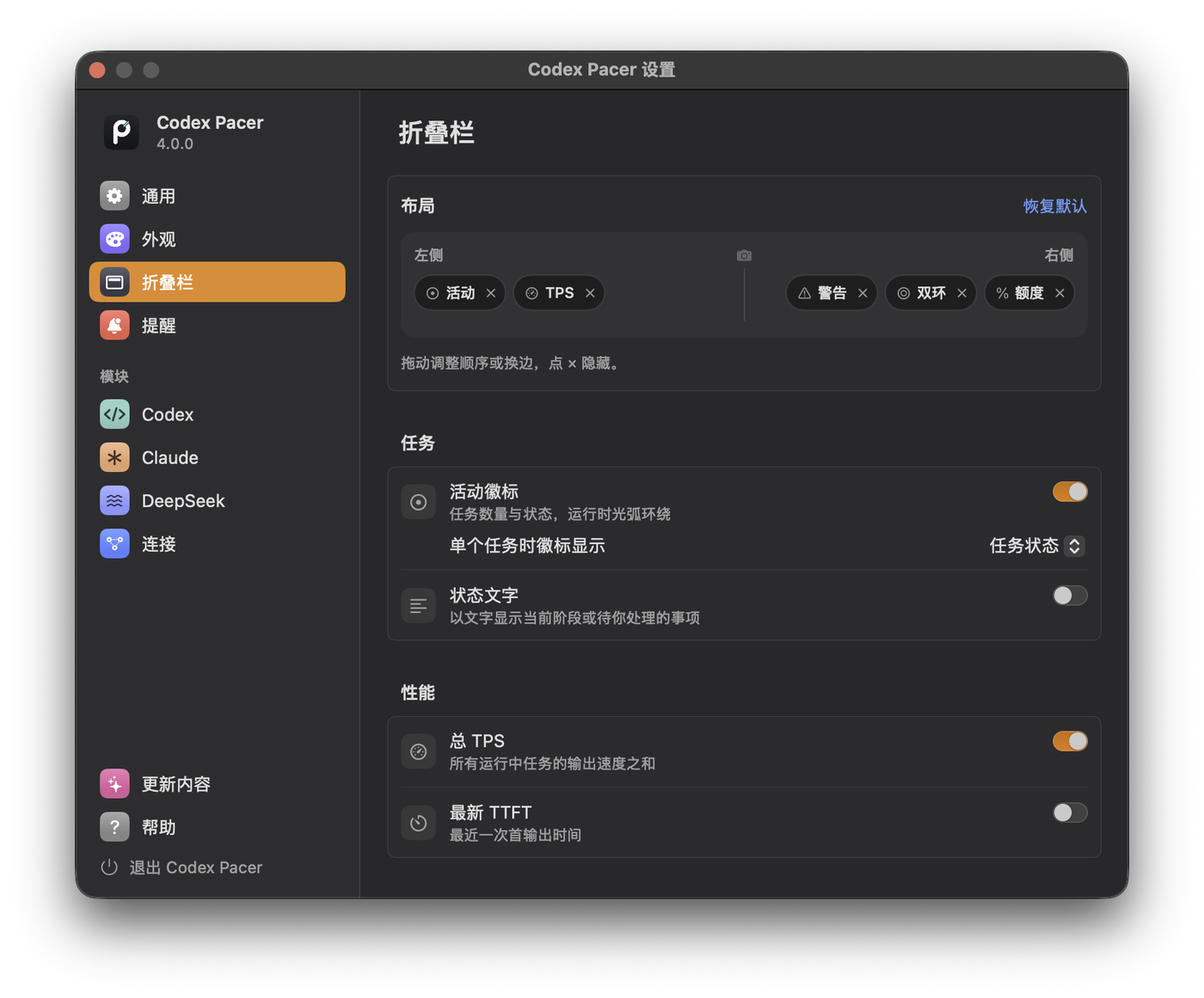
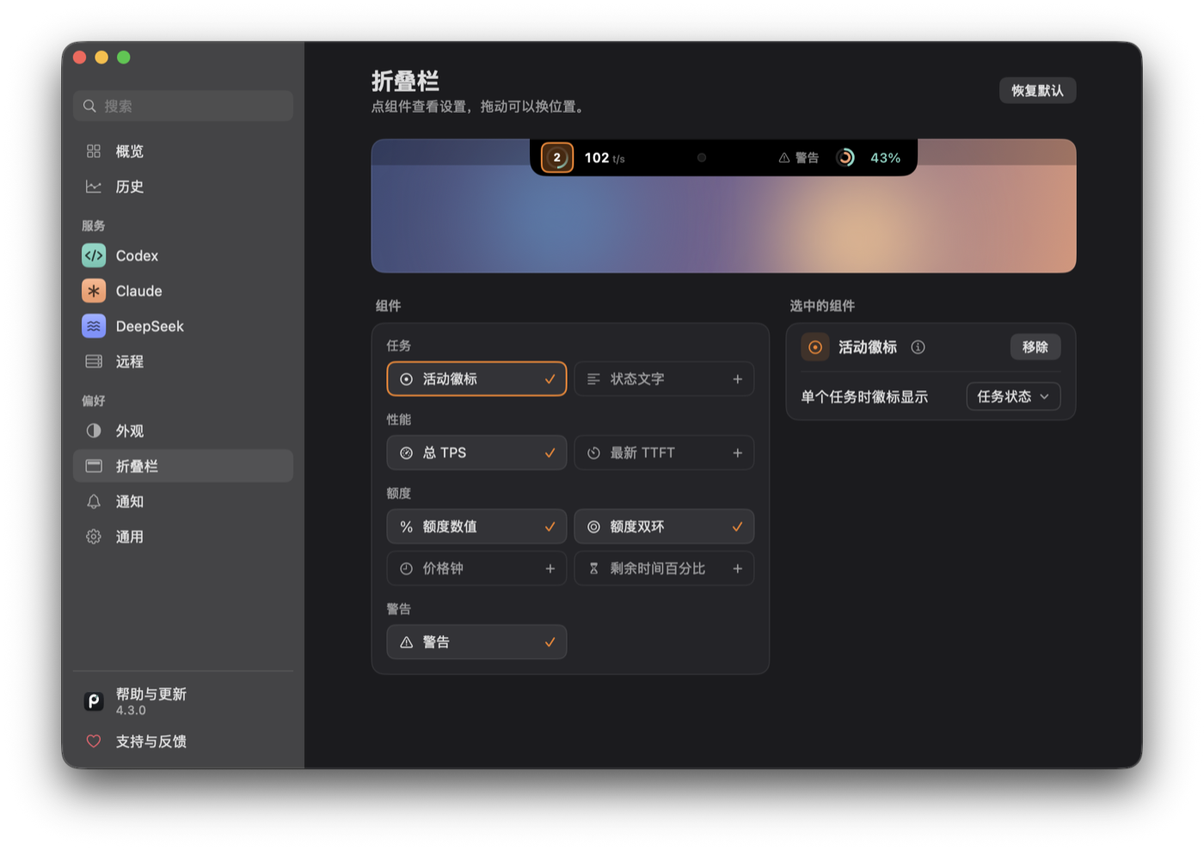
Prepare Codex Pacer 4.3.0 (build 79)
Bump the build above the locally tested 78, add the main window to
What's New, write the 4.3.0 changelog and release notes, and bring the
READMEs, guides and development notes up to date with new screenshots
of the Collapsed Bar page and the welcome guide.

diff --git a/native/Sources/PacerCore/WhatsNew.swift b/native/Sources/PacerCore/WhatsNew.swift
@@ -26,6 +26,7 @@ public enum WhatsNew {
     /// both Localizable.strings catalogs need every key.
     public static let releases = [
         Release(version: "4.3.0", items: [
+            Item(symbol: "macwindow", titleKey: "whats_new.main_window", detailKey: "whats_new.main_window_detail"),
             Item(symbol: "circle.dashed", titleKey: "whats_new.progress_ring", detailKey: "whats_new.progress_ring_detail")
         ]),
         Release(version: "4.2.4", items: [

diff --git a/docs/development.md b/docs/development.md
@@ -256,7 +256,7 @@ Settings is Pacer's main window: a `SettingsWindow` of 980×660 (at least 860×5
 
 General → Dock Icon (`dockIcon`: `whileOpen`, the default, `always` or `never`) switches the activation policy between `.regular` and `.accessory` as the window opens and closes and when the choice changes; clicking the Dock icon reopens the window. The island itself never needs the icon.
 
-Notifications is a matrix of events against two columns, the collapsed bar and system notifications, under one System Notifications switch, followed by ended-task retention. The bar column chooses the collapsed-bar warning kinds; replies, approvals and endings always show there. The system column is not per-event yet: its cells are disabled and show what the switch does today (a dash where an event has no system notification), and DeepSeek's rows follow the switch only while their bar warning is on. Pending replies/approvals, unread endings and quota already show in the collapsed bar, so the expanded island has no notice banner and those states always show; the former per-kind switches (`lowQuotaReminder`, `inputReminder`, `completionReminder`) are ignored and removed on the next settings change. With System Notifications on, a new reply/approval request, a turn ending or interruption and a quota window first reaching 15% each post one notification, read from the model's own defaults. The What's New tab shows the newest note as a feature card with Release Notes and folds each earlier version to one line of its highlights' titles; each highlight keeps its explanation behind ⓘ (a sign-in item problem still shows in place), and the once-per-update note keeps its full text. The Help tab opens with three tiles (the welcome guide, the user guide and issues), then a read-only legend shown one topic at a time by chips: Collapsed Bar, Expanded Panel, Codex, Claude or DeepSeek (starting on Collapsed Bar). Each entry is one sentence on what you see and what it means; troubleshooting and the rules behind the numbers stay in the user guide. Collapsed Bar covers module colors (teal Codex, warm orange Claude, blue DeepSeek under Multicolor; three shades of one accent otherwise), the badge with one, two and three running services, attention, endings, quota rings, warnings, customizing and moving the island; Expanded Panel covers expanding, opening a conversation, app buttons, Mark All as Read and pace. A module topic shows quota, the 5h warning, remote tasks and other apps for Codex and Claude; balance, balance and budget modes, turn cost, peak price, the price clock, alerts and speed for DeepSeek, with a footnote that each module turns on in its own page. Samples are the real components on bar-colored swatches, or a symbol where a mark has none. It writes no preferences. Support & Feedback is the only place Pacer asks for anything: it never prompts, reads no network and writes no preferences. Its links open in the default browser, which holds the GitHub session, so Pacer neither knows nor needs the sign-in or star state. Star opens `github.com/login?return_to=/RyanZhangNTU/codex-pacer`, the link GitHub's own signed-out Star button uses: a signed-in browser lands on the project at once (checked in Chrome), a signed-out one signs in and returns there. The issue-form links rely on GitHub's own redirect through sign-in. The coffee row has a button for each entry in `ProjectSupport.donationLinks` and one for `support-wechat.png` in PacerCore's resources, which shows the QR code in a popover that takes Esc before Settings does. The row hides when there are none. The Feedback & Community card ends with the QQ group: `ProjectSupport.qqGroupNumber` with Copy Number, and QR Code for `support-qq-group.png` (the group's own styled code, light dots on its dark card, which encodes https://qm.qq.com/q/5AieQJsCWY) in the same kind of popover; the button hides when the image does not ship. A two-step welcome window appears once per major line. Step 1 draws the collapsed bar hanging from a notched menu bar on the Appearance wallpaper with the real components (activity badge with its orbit, rate, quota rings with the alternating value, 5h marker) and the default attached-surface radii; callouts are tied to each part by measured anchors and dim the others on hover. Beside the three badge states, a scaled island replays the real `IslandMotion` spring as a pointer arrives and leaves (static and open with Reduce Motion), and All Marks opens Settings → Help & Updates → Help for the full legend. Help's Welcome Guide tile can show the guide again; Settings closes first (applying pending changes) so the guide's module switches cannot race its copy. Step 2 shows Codex, Claude and DeepSeek as cards whose switches make the same explicit module choice as Settings (automatic detection is noted until changed), with each provider's status and one action when needed (Settings when not found; Claude sign-in or workspace choice and DeepSeek sign-in or Paste Key in the provider's color), then the collapsed-bar shortcut, the System Notifications switch and the Open at Login switch. It appears on a fresh install or the first launch after upgrading from an earlier major line (3.x to 4.0 shows it again for the DeepSeek card), but not in demo mode or a Settings relaunch. Closing it records `welcomeGuideVersion`, so later 4.x updates stay quiet; `--welcome` forces it for checks, and demo runs never record it. Settings apply as they change, with no Save or Cancel: switches, pickers, sliders, tiles and layout edits persist and call `applySettings` after a 0.25 s coalescing delay (flushed when the window closes), so a slider drag or quick toggling resets a source at most once. Text fields (CLI path, Codex and Claude folders) commit on Return, focus loss, a chooser or window close; they validate first and keep the last valid value with an inline message. A language change is saved at once and offers Restart Now; enabling system notifications asks for permission immediately and turns back off if refused, retaining the refusal explanation. Permission state belongs to the app across Settings close/reopen; late replies cannot override the latest switch choice, and delivery remains off until the current request succeeds. Appearance and Collapsed Bar have no preview of their own because changes reach the real island at once. Liquid Glass has no app-level settings: the island uses the regular variant without a tint, so its clarity follows the system Liquid Glass look (System Settings → Appearance; the page shows one Transparency row with an Adjust button); a fixed 55% dark wash (75% with Increase Contrast) keeps light text legible over bright content, and Reduce Transparency shows the solid surface. Retired glass style, tint, transparency and corner-radius preferences are removed on the next settings change. With Liquid Glass attached to a notch (including Automatic on a notched screen) and transparency not reduced, a Notch Mode row in the Style section states that the collapsed bar stays black, keeping one shape with the camera, and the expanded island shows glass. Esc closes the window and the last selected pane is remembered. Settings reuses its native window and geometry but releases its hosting content on close (Esc, the red close control or Command-W). Reopening builds fresh values from saved preferences rather than retaining hidden history charts and model-observing views. This changes view lifetime, not collection cadence, and does not establish a measured overall energy reduction.
+Notifications is a matrix of events against two columns, the collapsed bar and system notifications, under one System Notifications switch, followed by ended-task retention. The bar column chooses the collapsed-bar warning kinds; replies, approvals and endings always show there. The system column is not per-event yet: its cells are disabled and show what the switch does today (a dash where an event has no system notification), and DeepSeek's rows follow the switch only while their bar warning is on. Pending replies/approvals, unread endings and quota already show in the collapsed bar, so the expanded island has no notice banner and those states always show; the former per-kind switches (`lowQuotaReminder`, `inputReminder`, `completionReminder`) are ignored and removed on the next settings change. With System Notifications on, a new reply/approval request, a turn ending or interruption and a quota window first reaching 15% each post one notification, read from the model's own defaults. The What's New tab shows the newest note as a feature card with Release Notes and folds each earlier version to one line of its highlights' titles; each highlight keeps its explanation behind ⓘ (a sign-in item problem still shows in place), and the once-per-update note keeps its full text. The Help tab opens with three tiles (the welcome guide, the user guide and issues), then a read-only legend shown one topic at a time by chips: Collapsed Bar, Expanded Panel, Codex, Claude or DeepSeek (starting on Collapsed Bar). Each entry is one sentence on what you see and what it means; troubleshooting and the rules behind the numbers stay in the user guide. Collapsed Bar covers module colors (teal Codex, warm orange Claude, blue DeepSeek under Multicolor; three shades of one accent otherwise), the badge with one, two and three running services, attention, endings, quota rings, warnings, customizing and moving the island; Expanded Panel covers expanding, opening a conversation, app buttons, Mark All as Read and pace. A module topic shows quota, the 5h warning, remote tasks and other apps for Codex and Claude; balance, balance and budget modes, turn cost, peak price, the price clock, alerts and speed for DeepSeek, with a footnote that each module turns on in its own page. Samples are the real components on bar-colored swatches, or a symbol where a mark has none. It writes no preferences. Support & Feedback is the only place Pacer asks for anything: it never prompts, reads no network and writes no preferences. Its links open in the default browser, which holds the GitHub session, so Pacer neither knows nor needs the sign-in or star state. Star opens `github.com/login?return_to=/RyanZhangNTU/codex-pacer`, the link GitHub's own signed-out Star button uses: a signed-in browser lands on the project at once (checked in Chrome), a signed-out one signs in and returns there. The issue-form links rely on GitHub's own redirect through sign-in. The coffee row has a button for each entry in `ProjectSupport.donationLinks` and one for `support-wechat.png` in PacerCore's resources, which shows the QR code in a popover that takes Esc before Settings does. The row hides when there are none. The Feedback & Community card ends with the QQ group: `ProjectSupport.qqGroupNumber` with Copy Number, and QR Code for `support-qq-group.png` (the group's own styled code, light dots on its dark card, which encodes https://qm.qq.com/q/5AieQJsCWY) in the same kind of popover; the button hides when the image does not ship. The welcome guide (`WelcomeView`) has four pages drawn like the main window, each with a large title. Welcome draws the collapsed bar hanging from a notched menu bar on the Appearance wallpaper with the real components (activity badge, rate, quota rings with the alternating value, 5h marker); callouts are tied to each part by measured anchors and dim the others on hover. Choose a Mode shows Island and Free Move as cards that replay the island opening or moving (static with Reduce Motion); picking one moves the real island at once, the same choice as Appearance. Choose What to Track shows Codex, Claude and DeepSeek as cards whose switches make the same explicit module choice as Settings (automatic detection is noted until changed), with each provider's status and one action when needed (Settings when not found; Claude sign-in or workspace choice and DeepSeek sign-in or Paste Key in the provider's color). A Few Choices has one switch for every service's progress ring, System Notifications, Open at Login and the collapsed-bar shortcut, with explanations behind ⓘ. Help's Welcome Guide tile can show the guide again; Settings closes first (applying pending changes) so the guide's module switches cannot race its copy. It appears on a fresh install or the first launch after upgrading from an earlier major line (3.x to 4.0 shows it again for the DeepSeek card), but not in demo mode or a Settings relaunch. Closing it records `welcomeGuideVersion`, so later 4.x updates stay quiet; `--welcome` forces it for checks, and demo runs never record it. Settings apply as they change, with no Save or Cancel: switches, pickers, sliders, tiles and layout edits persist and call `applySettings` after a 0.25 s coalescing delay (flushed when the window closes), so a slider drag or quick toggling resets a source at most once. Text fields (CLI path, Codex and Claude folders) commit on Return, focus loss, a chooser or window close; they validate first and keep the last valid value with an inline message. A language change is saved at once and offers Restart Now; enabling system notifications asks for permission immediately and turns back off if refused, retaining the refusal explanation. Permission state belongs to the app across Settings close/reopen; late replies cannot override the latest switch choice, and delivery remains off until the current request succeeds. Appearance and Collapsed Bar have no preview of their own because changes reach the real island at once. Liquid Glass has no app-level settings: the island uses the regular variant without a tint, so its clarity follows the system Liquid Glass look (System Settings → Appearance; the page shows one Transparency row with an Adjust button); a fixed 55% dark wash (75% with Increase Contrast) keeps light text legible over bright content, and Reduce Transparency shows the solid surface. Retired glass style, tint, transparency and corner-radius preferences are removed on the next settings change. With Liquid Glass attached to a notch (including Automatic on a notched screen) and transparency not reduced, a Notch Mode row in the Style section states that the collapsed bar stays black, keeping one shape with the camera, and the expanded island shows glass. Esc closes the window and the last selected pane is remembered. Settings reuses its native window and geometry but releases its hosting content on close (Esc, the red close control or Command-W). Reopening builds fresh values from saved preferences rather than retaining hidden history charts and model-observing views. This changes view lifetime, not collection cadence, and does not establish a measured overall energy reduction.
 
 Open at Login (General, welcome step 2 and the update note) registers the app through `SMAppService.mainApp`. macOS owns the record and shows it in System Settings → General → Login Items, so Pacer stores no preference of its own: it reads the status when Settings opens and whenever Pacer becomes active, treats Requires Approval as on with an explanation and a Login Items button, calls register or unregister only when the state actually changes, and keeps a failure message until the next choice. Demo runs use an in-memory record, so checks never add a login item for a `/private/tmp` build.
 

diff --git a/README.md b/README.md
@@ -33,7 +33,7 @@ Collapsed, Pacer is a slim bar around the camera that tells you how your agents 
 
 | | What it tells you |
 | --- | --- |
-| **Task badge** | How many tasks are running. An orbit turns while they work, teal for Codex, orange for Claude and blue for DeepSeek. Solid amber means a task is waiting for your reply or approval; a check marks a task that just ended. |
+| **Task badge** | How many tasks are running. An orbit turns while they work, teal for Codex, orange for Claude and blue for DeepSeek. Solid amber means a task is waiting for your reply or approval; a check marks a task that just ended. When the only running task reports its progress, the badge shows it as an arc. |
 | **Speed** | Combined output of the running tasks, in tokens per second. |
 | **Quota** | Remaining quota for Codex and Claude, and the DeepSeek balance or budget. Two rings show the modules you choose; the number alternates between the services. |
 | **Warnings** | Appear only when needed: the 5-hour quota is low, an SSH host is disconnected, quota has not updated, or DeepSeek's balance is low, spending spikes or a budget runs out. |
@@ -43,30 +43,32 @@ Collapsed, Pacer is a slim bar around the camera that tells you how your agents 
 ## Everything in one panel
 
 - **Every task in one list.** Codex and Claude Code tasks on this Mac or PC, on your SSH hosts, in WSL on Windows and through Codex Remote Control, threads and coordinators in Claude's cloud Projects, and local DeepSeek Harness tasks, each with its current stage, model and reasoning effort, turn time and output speed. Agents a task spawns are grouped under it.
+- **Progress on every task.** Codex, Claude Code and DeepSeek Harness report how much of your request is done, drawn as a ring around the task's icon. A comet circles until the first estimate, light runs along the arc while the task works, and a task that needs you or has ended fills a solid disc.
 - **Jump back in.** Click a task to open its conversation. An ended task stays as a card until you open it or its retention time passes, so nothing finishes unnoticed.
 - **Quota with pace.** Each service has one ring: a shorter upper arc for 5 hours and a longer lower arc for 7 days, each with its own remaining quota, reset countdown and white pace tick. Accounts without a 5-hour limit get a weekly gauge that opens at the bottom. With one service on, its pace, reset time and a forecast sit beside the ring. Switch to the original Classic layout in **Settings → Appearance → Expanded Quota**.
 - **DeepSeek by balance or budget.** DeepSeek charges a balance instead of quota windows, so its dial is today on a 24-hour face: what each hour cost, the doubled-price peak hours and the balance in the middle. Switch to daily and weekly budgets and the dial paces them like quota. Pacer checks balance changes against its own estimate, so spend not made on this Mac, such as web searches or another device, counts too, and it warns you when 10 minutes cost more than usual. Each task shows its turn's estimated cost, and with DeepSeek alone the panel adds where today's money went and the last 7 days. The balance comes from a DeepSeek platform sign-in in Pacer's own window or an API key, whichever matches how Harness signs in.
-- **History when you want it.** Settings keeps each service's quota curve for the current cycle, plus credits and banked resets when the service reports them.
+- **An overview and history.** Pacer's main window opens on an Overview of every service and anything that needs you. History keeps each service's quota curve for the current cycle, credits and banked resets when the service reports them, and DeepSeek's last seven days.
 
 ![DeepSeek alone, with sample data: the day dial with the balance and a ×2 until 6:00 PM chip, beside today's spend, the last two hours' speed and where today's money went, including a hatched Not on this Mac part, above the last 7 days](docs/assets/deepseek.png)
 
 ## Make it yours
 
-![Collapsed Bar settings: drag components between the left and right of the camera and toggle each one](docs/assets/settings-collapsed-bar.png)
+![Collapsed Bar in the main window: the bar on a live preview, the component library below and the selected Activity badge's settings](docs/assets/settings-collapsed-bar.png)
 
-- **Arrange the bar.** Drag components between the left and right of the camera, hide what you don't need, choose which module each quota ring shows, and pick 5 hours or 7 days for each service's quota. With DeepSeek alone, a price clock shows the peak hours at a glance.
+- **Arrange the bar.** On a live preview, drag components between the left and right of the camera, hide what you don't need, choose which module each quota ring shows, and pick 5 hours or 7 days for each service's quota. With DeepSeek alone, a price clock shows the peak hours at a glance.
 - **Black or Liquid Glass.** On macOS 26 and later the island can use Liquid Glass, and its clarity follows the system setting.
-- **Place the island where it fits.** On Windows, drag the status bar anywhere or snap it to any screen edge. On Mac, place it around the notch, under the menu bar, or at a corner. Both platforms let you choose a display and whether the island appears over full-screen apps.
+- **Theme and accent color.** Pacer's windows follow the system or stay light or dark, and an accent color tints rings, progress and selection.
+- **Place the island where it fits.** Keep it at the top center around the notch, or choose Free Move and drag the status bar anywhere; released near a screen edge, it snaps there. Choose a display and whether the island appears over full-screen apps.
 - **Only what you use.** Turn the Codex, Claude and DeepSeek modules on or off independently.
 - **Notifications, if you want them.** macOS notifications when a task needs you or ends, quota or the balance runs low, DeepSeek spending spikes or a budget runs out.
 - **In your language.** English and Simplified Chinese.
 
 ## Get started
 
-![The welcome guide: the collapsed bar explained with callouts, the three badge states, and hover to expand](docs/assets/welcome.png)
+![The welcome guide's first page: the collapsed bar around the camera, with callouts for tasks, speed, quota left and warnings](docs/assets/welcome.png)
 
 1. [Download the latest release](https://github.com/RyanZhangNTU/codex-pacer/releases/latest) and install it as described below.
-2. Open Codex Pacer. A two-step guide explains the island and lets you choose which services to follow and whether Pacer opens at login. You can open it again from **Settings → Help**.
+2. Open Codex Pacer. A short guide explains the island, lets you choose Island or Free Move and the services to follow, and covers progress rings, notifications and opening at login. Open it again from **Settings → Help & Updates**.
 3. To see Claude quota, sign in once in Pacer's own Claude window. Task tracking for Claude Code and SSH hosts sets itself up. For the DeepSeek balance, sign in to the DeepSeek platform in Pacer's window, or paste an API key if Harness uses one.
 
 ## Install
@@ -85,7 +87,7 @@ After that, Pacer updates itself: it checks daily, shows a new version in its wi
 1. Download `Codex-Pacer-VERSION-windows-x64-setup.exe` from the [latest release](https://github.com/RyanZhangNTU/codex-pacer/releases/latest), or `windows-arm64-setup.exe` on an ARM PC, and run it. It installs for the current user without administrator rights.
 2. The installer is not code signed yet. If SmartScreen says "Windows protected your PC", choose **More info → Run anyway**.
 
-Updates then work as on the Mac, from **Settings → General**. Uninstall from Windows **Installed apps**; preferences and read history are kept. For screenshots with sample data, quit Pacer and run `CodexPacer.exe --demo` from its install folder (`%LOCALAPPDATA%\Programs\Codex Pacer` by default). More details are in [Windows installation](docs/windows-installation.md).
+Updates then work as on the Mac, from **Settings → Help & Updates**. Uninstall from Windows **Installed apps**; preferences and read history are kept. For screenshots with sample data, quit Pacer and run `CodexPacer.exe --demo` from its install folder (`%LOCALAPPDATA%\Programs\Codex Pacer` by default). More details are in [Windows installation](docs/windows-installation.md).
 
 ## Requirements
 
@@ -99,7 +101,7 @@ Updates then work as on the Mac, from **Settings → General**. Uninstall from W
 
 - **Local first.** Pacer has no account and no analytics. It reads the session logs that Codex, Claude Code and DeepSeek Harness already write and keeps only what the island shows: task titles, stages, models, timing and token counts, never the content of your prompts or responses.
 - **Your own sign-ins.** Codex quota comes from your Codex CLI. Claude quota comes from Claude Code's status line or a claude.ai session in Pacer's own window, which also follows your cloud Projects. The DeepSeek balance comes from a platform session in Pacer's own window or a key you paste, kept in your keychain. Pacer never reads other apps' Keychain items, credentials or browser cookies.
-- **Reversible setup.** For Claude Code, Pacer adds its own hooks and a local-only telemetry endpoint next to your existing settings, and removes them when you turn the Claude module off.
+- **Reversible setup.** For Claude Code, Pacer adds its own hooks and a local-only telemetry endpoint next to your existing settings, and removes them when you turn the Claude module off. Progress rings add a small local reporting tool to Claude Code, Codex and Harness that sends Pacer only a number; turning a ring off removes it.
 - **Few network requests.** Pacer connects only to your SSH hosts, the services' own quota endpoints and GitHub for updates.
 - **Screen sharing.** *Hide Project Names* in Settings replaces task titles on screen.
 

diff --git a/README.zh-CN.md b/README.zh-CN.md
@@ -32,7 +32,7 @@
 
 | | 含义 |
 | --- | --- |
-| **任务徽标** | 正在运行的任务数。任务进行时有光弧环绕，青绿色是 Codex，暖橙色是 Claude，蓝色是 DeepSeek。变成实心琥珀色表示有任务等你回复或审批；出现对勾表示有任务刚刚结束。 |
+| **任务徽标** | 正在运行的任务数。任务进行时有光弧环绕，青绿色是 Codex，暖橙色是 Claude，蓝色是 DeepSeek。变成实心琥珀色表示有任务等你回复或审批；出现对勾表示有任务刚刚结束。只有一个任务在运行且报告了进度时，徽标会显示它的进度弧。 |
 | **速度** | 所有运行中任务的合计输出速度，单位为 token/秒。 |
 | **额度** | Codex 与 Claude 的剩余额度，以及 DeepSeek 余额或预算。双环显示你选的两个模块，数值在各服务之间交替。 |
 | **警告** | 有问题时才出现：5 小时额度不足、SSH 主机未连接、额度没有按时更新，或 DeepSeek 余额偏低、花费异常、预算快用完。 |
@@ -42,30 +42,32 @@
 ## 一个面板看全部
 
 - **所有任务一个列表。** 本机、SSH 主机、Windows 上的 WSL 以及 Codex Remote Control 上的 Codex 与 Claude Code 任务，Claude 云端项目里的线程和协调，还有本机的 DeepSeek Harness 任务，都显示当前阶段、模型与推理强度、本轮用时和输出速度。任务派生的子代理归在它下面。
+- **每个任务的进度。** Codex、Claude Code 和 DeepSeek Harness 会报告请求完成了多少，显示为任务图标外的一圈圆环。收到估计前是一颗绕圈的彗星，工作时光沿弧流动，等你处理或已结束的任务填成实心圆。
 - **一点就回到对话。** 点击任务打开对应会话。任务结束后会保留一张卡片，直到你打开它或保留时间到期，不会错过任何一次结束。
 - **额度带配速。** 每个服务一个圆环：较短的上弧显示 5 小时，较长的下弧显示 7 天，各自保留剩余额度、重置倒计时和白色配速刻度。没有 5 小时限制时显示底部开口的每周圆环。只开启一个服务时，配速、重置时刻和预计显示在圆环右侧。可在“设置 → 外观 → 展开态额度”切回原版经典样式。
 - **DeepSeek 按余额或预算。** DeepSeek 按余额扣费，没有额度窗口，所以它的环是今天的 24 小时钟面：每个小时花了多少、单价翻倍的高峰时段，中间是余额。也可以改用每日、每周预算，环会像额度一样显示配速。Pacer 用余额变化和本机估算对账，联网搜索、别的设备等不在本机的花费也会算进去；10 分钟花得比平时多时会提醒你。每个任务显示这一回合的估算花费；只开启 DeepSeek 时，面板还会显示今天的花费去向和近 7 天。余额按 Harness 的登录方式，通过 Pacer 窗口中的 DeepSeek 开放平台登录或 API Key 读取。
-- **需要时再看历史。** 设置里保留每个服务当前周期的额度曲线；服务提供时，还能看到 Credit 和重置券。
+- **总览与历史。** Pacer 的主窗口打开就是总览：每个服务一张卡片，需要你处理的事放在最前面。历史页保留每个服务当前周期的额度曲线、服务提供的 Credit 和重置券，以及 DeepSeek 的近 7 天。
 
 ![只开启 DeepSeek（演示数据）：日环中间是余额，下方是“×2 至 下午6:00”提示；右侧是今天的花费、最近 2 小时的速度和今天的花费去向，含带斜纹的“不在本机”；下方是近 7 天](docs/assets/deepseek.zh-CN.png)
 
 ## 按你的习惯来
 
-![“折叠栏”设置：在摄像头左右两侧拖动组件，逐项开关](docs/assets/settings-collapsed-bar.zh-CN.png)
+![主窗口的“折叠栏”页：上方是实时预览，下方是组件库和选中组件“活动徽标”的设置](docs/assets/settings-collapsed-bar.zh-CN.png)
 
-- **自定义折叠栏。** 在摄像头左右两侧拖动组件、隐藏不需要的组件，选择额度双环各显示哪个模块，并为每个服务选择显示 5 小时还是 7 天额度。只开 DeepSeek 时，价格钟让你一眼看到高峰时段。
+- **自定义折叠栏。** 在实时预览上，于摄像头左右两侧拖动组件、隐藏不需要的组件，选择额度双环各显示哪个模块，并为每个服务选择显示 5 小时还是 7 天额度。只开 DeepSeek 时，价格钟让你一眼看到高峰时段。
 - **纯黑或液态玻璃。** macOS 26 及以上可使用液态玻璃，通透程度跟随系统设置。
-- **把灵动岛放在顺手的位置。** Windows 上可以拖动状态栏，把小岛留在屏幕内或贴到任一边缘。Mac 上可以贴合刘海、放在菜单栏下方，或贴在任一角的侧边。两边都可以选择显示器，也可以在全屏应用上方显示。
+- **主题和强调色。** Pacer 的窗口可以跟随系统，或固定浅色、深色；强调色会用在圆环、进度和选中状态上。
+- **把灵动岛放在顺手的位置。** 可以留在顶部中央贴合刘海，也可以选“自由拖动”，按住状态栏拖到任意位置，靠近屏幕边缘松手会吸附。可以选择显示器，也可以在全屏应用上方显示。
 - **只开需要的模块。** Codex、Claude 和 DeepSeek 模块可以分别开启或关闭。
 - **通知随你。** 可选择在任务需要你处理或结束、额度或余额不足、DeepSeek 花费异常或预算快用完时发送 macOS 通知。
 - **支持中英文。** 简体中文与英文。
 
 ## 开始使用
 
-![入门引导：用标注讲解折叠栏、徽标的三种状态以及悬停展开](docs/assets/welcome.zh-CN.png)
+![入门引导第一页：摄像头两侧的折叠栏，标注了任务、速度、剩余额度和警告](docs/assets/welcome.zh-CN.png)
 
 1. [下载最新版本](https://github.com/RyanZhangNTU/codex-pacer/releases/latest)，按下方步骤安装。
-2. 打开 Codex Pacer。两步入门引导会介绍灵动岛，并让你选择要追踪的服务以及是否登录时打开。之后可以在“设置 → 帮助”中再次打开。
+2. 打开 Codex Pacer。简短的入门引导会介绍灵动岛，让你选择灵动岛或自由拖动、要追踪的服务，并说明进度圆环、通知和登录时打开。之后可以在“设置 → 帮助与更新”中再次打开。
 3. 想看 Claude 额度，只需在 Pacer 自带的 Claude 窗口中登录一次。Claude Code 和 SSH 主机上的任务追踪会自动配置好。想看 DeepSeek 余额，在 Pacer 的窗口中登录 DeepSeek 开放平台；Harness 使用 API Key 时，粘贴一个 Key 即可。
 
 ## 安装
@@ -84,7 +86,7 @@ Codex Pacer 以通用 DMG 发布，已使用 Developer ID 签名并通过 Apple 
 1. 从[最新版本](https://github.com/RyanZhangNTU/codex-pacer/releases/latest)下载 `Codex-Pacer-版本号-windows-x64-setup.exe`（ARM 电脑下载 `windows-arm64-setup.exe`）并运行。按当前用户安装，无需管理员权限。
 2. 安装包暂未做代码签名。如果 SmartScreen 提示“Windows 已保护你的电脑”，点**更多信息 → 仍要运行**。
 
-之后的更新和 Mac 一样，在“设置 → 通用”中进行。在 Windows“已安装的应用”中卸载，偏好与已读记录会保留。需要用示例数据截图时，先退出 Pacer，再从安装目录（默认 `%LOCALAPPDATA%\Programs\Codex Pacer`）运行 `CodexPacer.exe --demo`。更多说明见 [Windows 安装](docs/windows-installation.md)。
+之后的更新和 Mac 一样，在“设置 → 帮助与更新”中进行。在 Windows“已安装的应用”中卸载，偏好与已读记录会保留。需要用示例数据截图时，先退出 Pacer，再从安装目录（默认 `%LOCALAPPDATA%\Programs\Codex Pacer`）运行 `CodexPacer.exe --demo`。更多说明见 [Windows 安装](docs/windows-installation.md)。
 
 ## 系统要求
 
@@ -98,7 +100,7 @@ Codex Pacer 以通用 DMG 发布，已使用 Developer ID 签名并通过 Apple 
 
 - **本地优先。** Pacer 没有账号，也不做任何统计上报。它读取 Codex、Claude Code 和 DeepSeek Harness 本来就会写下的会话日志，只保留灵动岛需要显示的内容：任务标题、阶段、模型、时间和 token 数，从不保存你的提示词或回复内容。
 - **用你自己的登录。** Codex 额度通过你的 Codex CLI 读取；Claude 额度来自 Claude Code 的状态栏数据，或 Pacer 专用窗口中的 claude.ai 会话，这个会话也用于跟随云端项目；DeepSeek 余额来自 Pacer 专用窗口中的开放平台会话，或你粘贴并保存在钥匙串里的 Key。Pacer 不读取其他应用的钥匙串条目、凭据或浏览器 Cookie。
-- **配置可以撤回。** 对于 Claude Code，Pacer 会在你现有设置旁追加自己的 hooks 和仅限本机的遥测端点；关闭 Claude 模块时会移除这些内容。
+- **配置可以撤回。** 对于 Claude Code，Pacer 会在你现有设置旁追加自己的 hooks 和仅限本机的遥测端点；关闭 Claude 模块时会移除这些内容。进度圆环会为 Claude Code、Codex 和 Harness 添加一个只向 Pacer 报告数字的本机上报工具，关闭圆环即移除。
 - **很少的网络请求。** Pacer 只连接你的 SSH 主机、各服务自己的额度接口，以及用于检查更新的 GitHub。
 - **共享屏幕时。** 设置中的“隐藏项目名称”会替换屏幕上的任务标题。
 

diff --git a/CHANGELOG.md b/CHANGELOG.md
@@ -1,8 +1,11 @@
 # Changelog
 
-## 4.3.0 (in development)
+## 4.3.0
 
-- Claude's self-reported progress ring, on Mac and Windows. A switch in Settings → Claude adds Pacer's Claude Code plugin, whose one tool, report_progress, lets Claude report how much of your request is done. The ring follows the whole request: it waits while Claude's own background work runs, continues when Claude resumes, and ends only when nothing is left running. When Claude finishes normally, the ring fills to 100%. Tasks in Claude cloud Projects, which can't run the plugin, keep the dashed ring until they finish. Sessions on SSH hosts, and WSL on Windows, get the ring once Pacer has set them up again.
+- A new main window on Mac and Windows. Settings becomes Pacer's main window, with a sidebar, an Overview of every service and a History page. Updates download and install in place, Appearance adds a theme and an accent color, the Collapsed Bar is arranged on a live preview, and the welcome guide has four short pages.
+- Task progress rings for Codex, Claude Code and DeepSeek Harness, on by default. Each service reports how much of your request is done, drawn around the task's icon. The ring waits while background work runs and fills when the request ends. Claude sessions on SSH hosts, and in WSL on Windows, get it too. Turn it off per service in its settings.
+- New task icons. A comet circles until the first estimate, light runs along the arc while the task works, and a task that needs you or has ended fills a solid disc. When one task reports progress, the collapsed badge shows it.
+- Windows: the engine no longer keeps a processor core busy while Pacer is signed in to Claude.
 
 ## 4.2.5
 

diff --git a/docs/guide.md b/docs/guide.md
@@ -26,7 +26,7 @@ The first time you open Codex Pacer 4, or the first launch after upgrading from 
 3. **Choose What to Track** turns the Codex, Claude and DeepSeek modules on or off and shows whether each one is ready.
 4. **A Few Choices** covers the task progress rings, system notifications, opening Pacer at login and a shortcut to customize the collapsed bar.
 
-![Step 2 of the welcome guide: Codex, Claude and DeepSeek cards with their own switches, then Customize the Collapsed Bar, System Notifications and Open at Login](assets/welcome-services.png)
+![Choose What to Track in the welcome guide: Codex, Claude and DeepSeek cards, each with its own switch and status](assets/welcome-services.png)
 
 Each module is independent. Pacer turns a module on automatically when it finds that service installed; once you flip a switch, your choice sticks. You can change it any time in **Settings → Codex**, **Settings → Claude** or **Settings → DeepSeek**, and reopen the guide from **Settings → Help & Updates → Help**.
 

diff --git a/docs/guide.zh-CN.md b/docs/guide.zh-CN.md
@@ -26,7 +26,7 @@
 3. **选择要追踪的服务**：分别开关 Codex、Claude 与 DeepSeek 模块，查看是否已就绪。
 4. **最后几项设置**：任务进度圆环、系统通知、登录时打开，以及前往自定义折叠栏。
 
-![入门引导第 2 步：Codex、Claude 与 DeepSeek 卡片各有开关，下方是自定义折叠栏、系统通知和登录时打开](assets/welcome-services.zh-CN.png)
+![入门引导的“选择要追踪的服务”：Codex、Claude 和 DeepSeek 三张卡片，各有开关和状态](assets/welcome-services.zh-CN.png)
 
 各模块互不影响。检测到某个服务已安装时，Pacer 会自动开启对应模块；你手动拨动开关后，会一直按你的选择来。之后可在“设置 → Codex”“设置 → Claude”或“设置 → DeepSeek”中修改，也可以在“设置 → 帮助与更新 → 帮助”中再次打开引导。
 

diff --git a/docs/release-notes-4.3.0.zh-CN.md b/docs/release-notes-4.3.0.zh-CN.md
@@ -1,0 +1,9 @@
+Codex Pacer 4.3.0 在 Mac 和 Windows 上带来全新主窗口、任务进度圆环和新的任务图标。
+
+- 全新主窗口：设置变成了 Pacer 的主窗口，所有 UI 焕然一新。
+- 任务进度圆环：实时追踪任务完成进度。
+- 全新任务状态图标和动画。
+- Windows：大幅优化了 CPU 占用。
+- 其他错误修复和稳定性更新。
+
+更多信息见[使用说明](https://github.com/RyanZhangNTU/codex-pacer/blob/main/docs/guide.zh-CN.md)和[完整更新记录](https://github.com/RyanZhangNTU/codex-pacer/blob/main/CHANGELOG.md)。

diff --git a/docs/release-notes-4.3.0.en.md b/docs/release-notes-4.3.0.en.md
@@ -1,0 +1,9 @@
+Codex Pacer 4.3.0 brings a new main window, task progress rings and new task icons to the Mac and Windows.
+
+- New main window: Settings is now Pacer's main window, with a completely refreshed design.
+- Task progress rings: follow how far each task has come, live.
+- New task status icons and animations.
+- Windows: much lower CPU usage.
+- Other bug fixes and stability improvements.
+
+See the [user guide](https://github.com/RyanZhangNTU/codex-pacer/blob/main/docs/guide.md) and the [full changelog](https://github.com/RyanZhangNTU/codex-pacer/blob/main/CHANGELOG.md).
